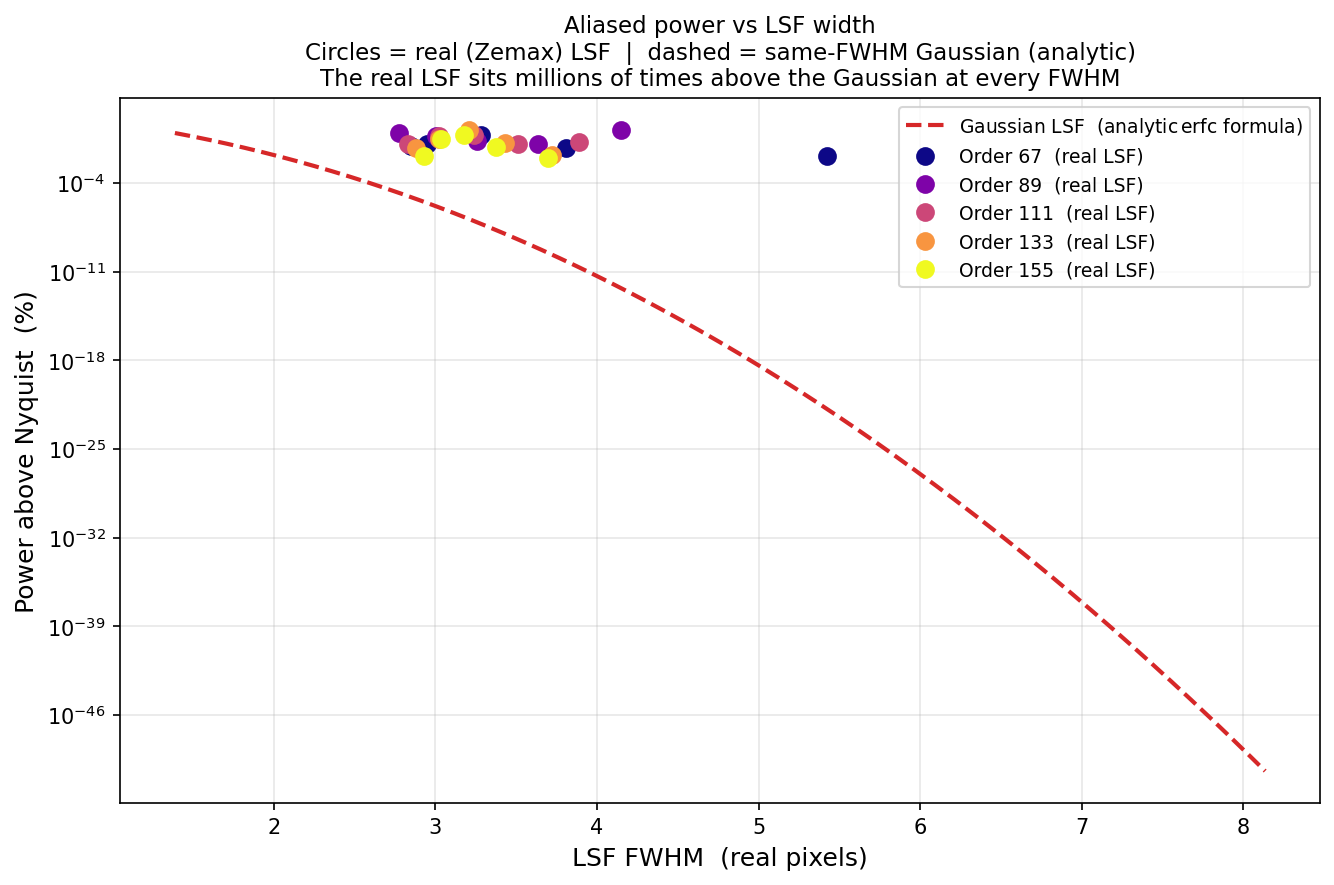
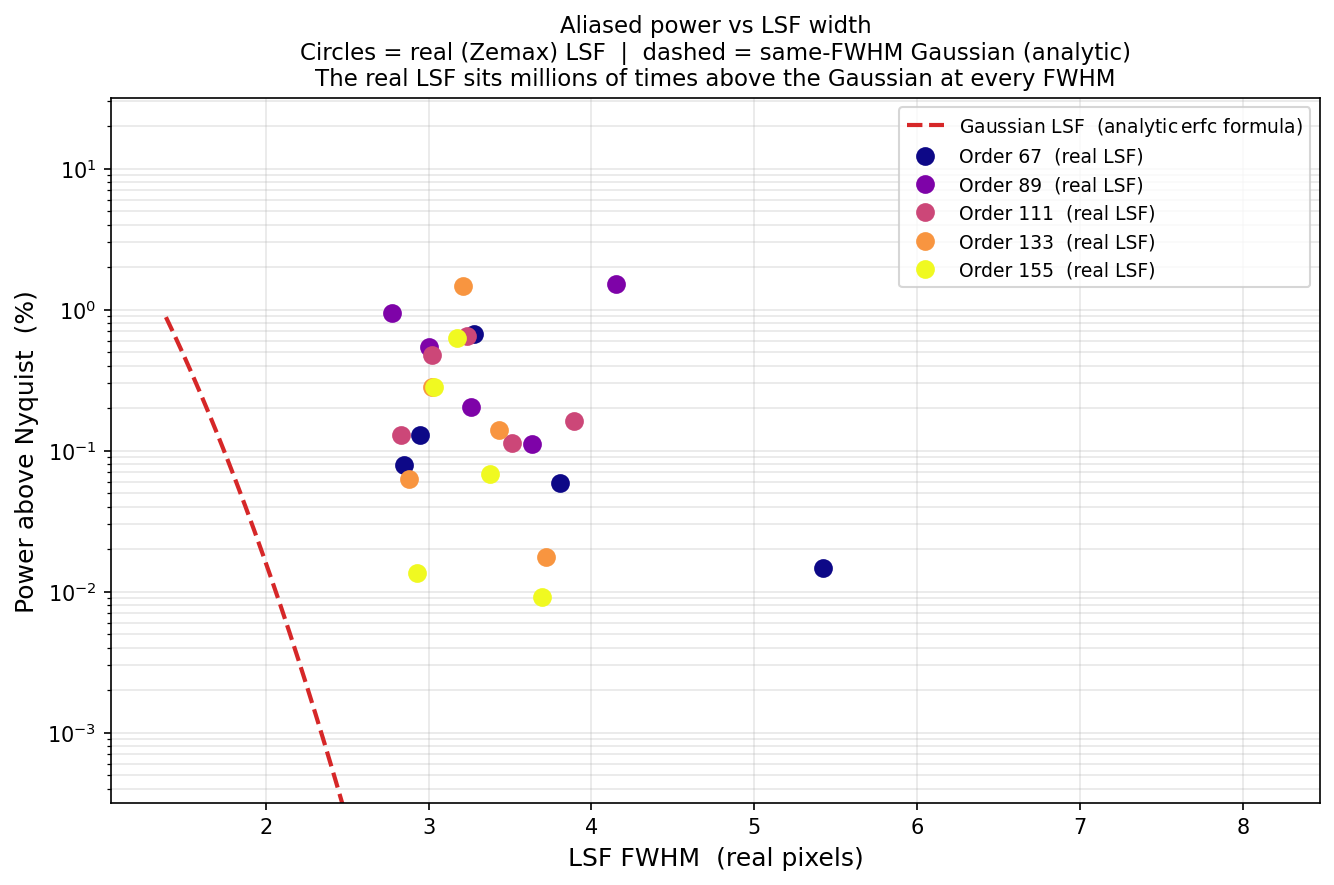
Add y-axis clipping to enhance visibility of LSF data in plots

diff --git a/lsf_nyquist.py b/lsf_nyquist.py
@@ -583,6 +583,11 @@ ax5.set_title(
     fontsize=11)
 ax5.legend(fontsize=9, loc='upper right')
 ax5.grid(True, which='both', alpha=0.3)
+# Clip y-axis to a decade around the real LSF data — the Gaussian curve is
+# so many orders of magnitude below that showing it would make the data invisible
+y_lo = 10 ** (np.floor(np.log10(frac_lsf_v.min())) - 0.5)
+y_hi = 10 ** (np.ceil( np.log10(frac_lsf_v.max())) + 0.5)
+ax5.set_ylim([100 * y_lo, 100 * y_hi])
 plt.tight_layout()
 _out = os.path.join(OUTPUT_DIR, 'fig_05_aliasing_vs_fwhm.png')
 plt.savefig(_out, dpi=150, bbox_inches='tight')
